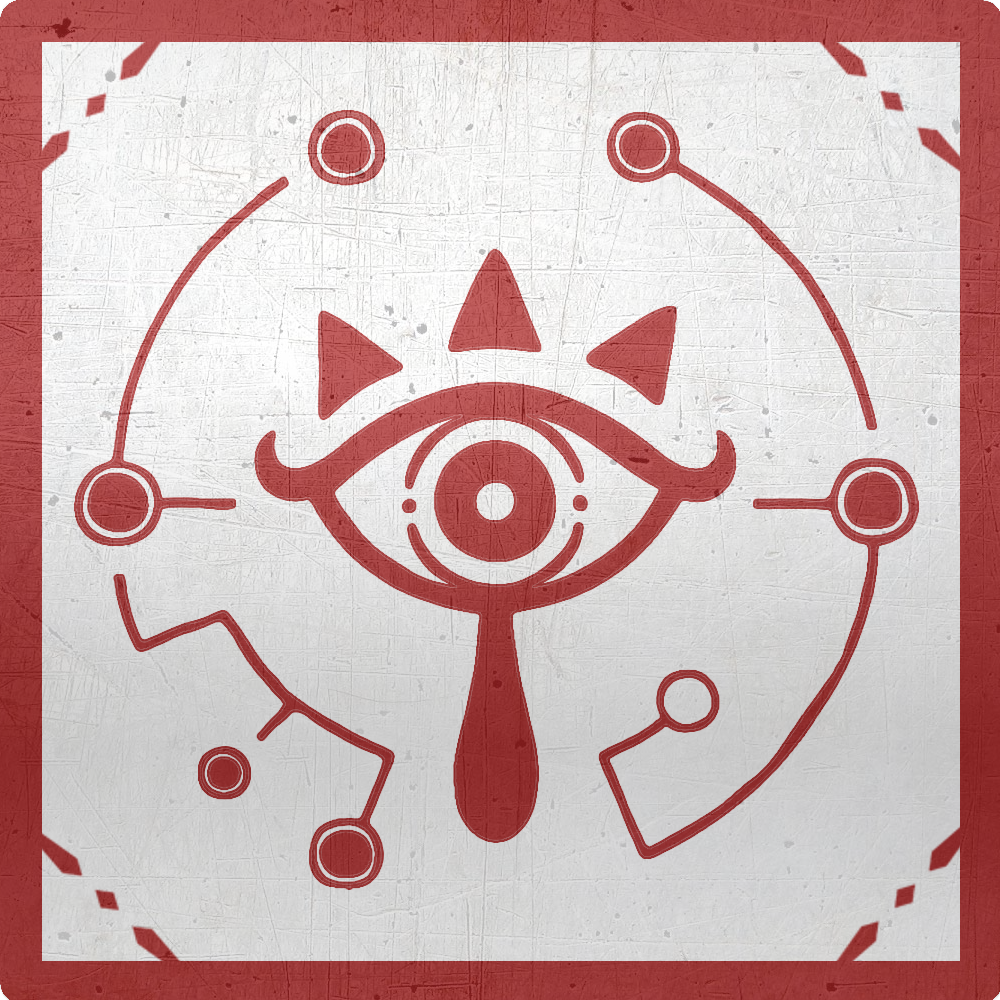
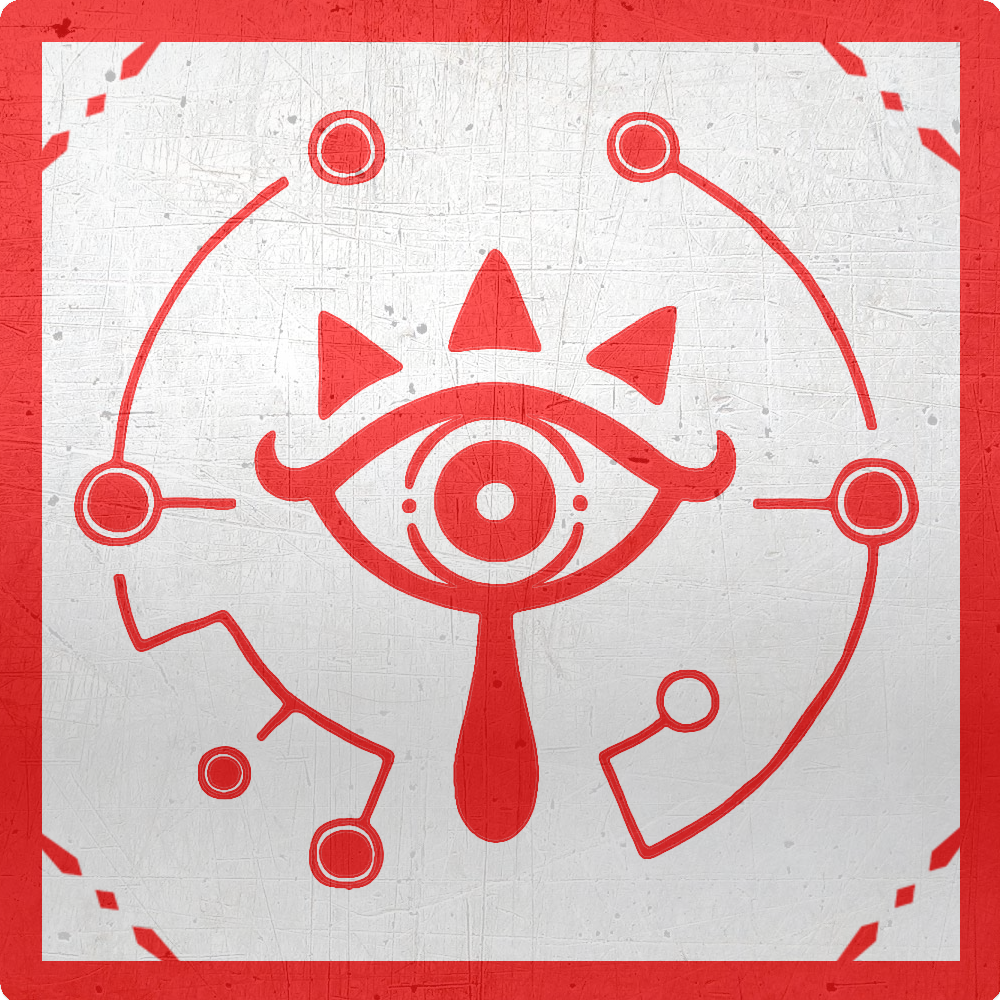
update Zelda theme red tiles + background && add back tile for One Piece and Zelda themes

diff --git a/src/main/java/latice/application/GameMain.java b/src/main/java/latice/application/GameMain.java
@@ -79,7 +79,7 @@ public class GameMain extends Application {
 		    	}
 		    }
 		});
-		primaryStage.setTitle("Fenetre");
+		primaryStage.setTitle("Latice");
 		primaryStage.setResizable(false);
 		primaryStage.show();
 		
@@ -102,7 +102,6 @@ public class GameMain extends Application {
 		} else {
 			startGameplay(player2,player1,primaryStage);
 		}
-		
 		this.gameBoard.generateBox();
 		GridPane gp = GameVisual.generateGameBoard();
 		this.borderPane.setCenter(gp);
@@ -139,8 +138,6 @@ public class GameMain extends Application {
 			MediaPlayer mediaPlayer = new MediaPlayer(media);
 	        mediaPlayer.setAutoPlay(true);
 			MediaView mediaViewer = new MediaView(mediaPlayer);
-			System.out.println(media.getDuration().toSeconds());
-			System.out.println(mediaPlayer.getTotalDuration().toSeconds());
 			GameVisual.getRoot().getChildren().add(mediaViewer);
 			mediaPlayer.setOnEndOfMedia(new Runnable() {
 				@Override

diff --git a/src/main/java/latice/vue/TileImageData.java b/src/main/java/latice/vue/TileImageData.java
@@ -82,7 +82,7 @@ public class TileImageData extends ImageView implements Serializable {
 	public void hideTile() {
 		String urlFichier;
 		try {
-			File fichier = new File("src/main/resources/themes/pokemon/back.png");
+			File fichier = new File("src/main/resources/themes/"+GameVisual.getTheme()+"/back.png");
 			urlFichier = fichier.toURI().toURL().toString();
 			Image img = new Image(urlFichier, 62, 62, true, true);
 			setImage(img);
